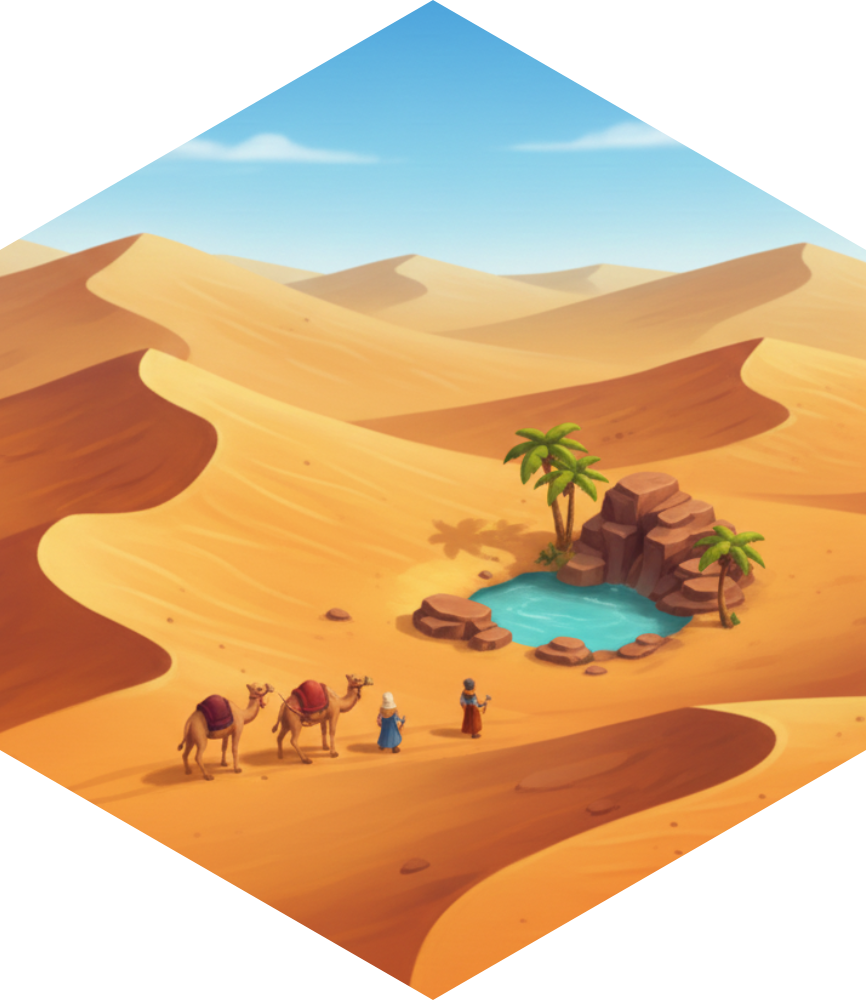
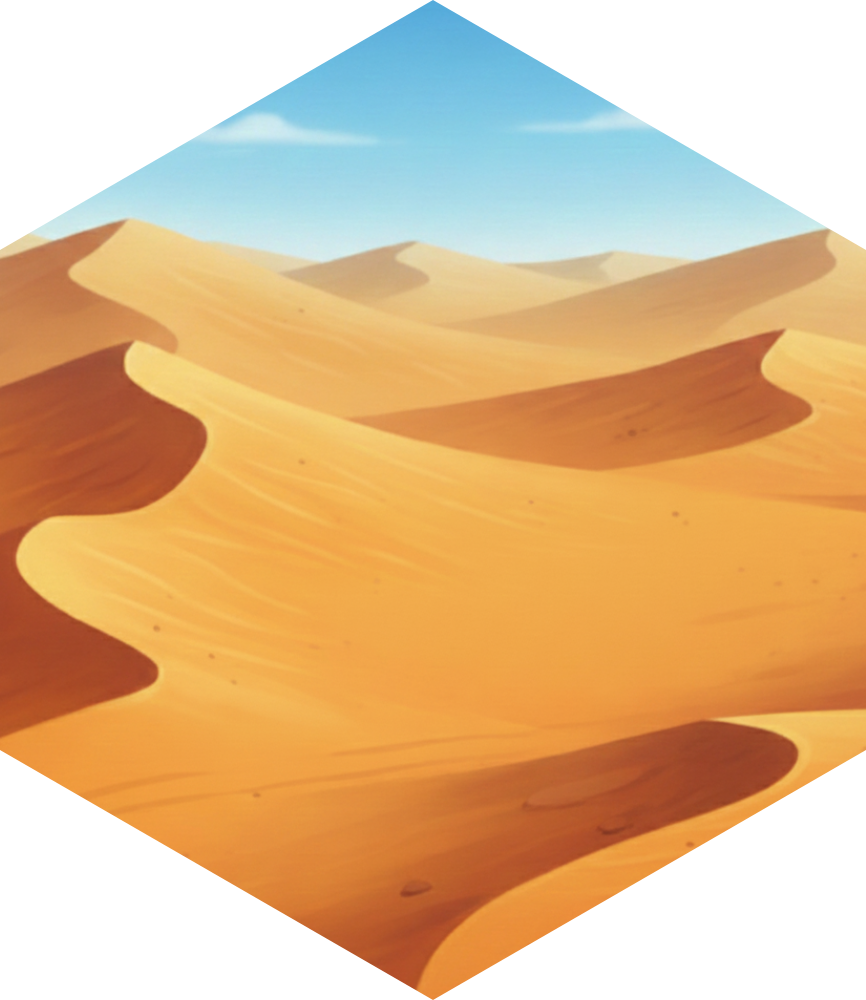
V01.00.04 añadir dos mapas y la opción de números fijos

diff --git a/index.html b/index.html
@@ -114,6 +114,32 @@
         .rojo { color: red; font-size: 18px; }
 
         .btn { width: 100%; padding: 10px; border-radius: 5px; border: none; cursor: pointer; background: #2980b9; color: white; font-weight: bold; margin-bottom: 5px; }
+
+        /* Rejilla de edición pequeña */
+        .modo-edicion .hex {
+            width: 30px !important;
+            height: calc(30px * 1.1547) !important;
+            outline: 1px solid rgba(255,255,255,0.1);
+        }
+
+        /* Paleta de selección */
+        .paleta-editor { 
+            display: grid; 
+            grid-template-columns: repeat(3, 1fr); 
+            gap: 5px; 
+            margin-top: 10px; 
+        }
+        .pincel-opcion { 
+            width: 45px; height: 45px; 
+            cursor: pointer; 
+            border: 2px solid transparent;
+            clip-path: polygon(50% 0%, 100% 25%, 100% 75%, 50% 100%, 0% 75%, 0% 25%);
+            background-size: cover;
+        }
+        .pincel-opcion.activo { border: 2px solid #f1c40f; transform: scale(1.1); }
+
+        /* Cursor especial al pintar */
+        .pintando { cursor: crosshair !important; }
     </style>
 </head>
 
@@ -133,6 +159,8 @@
         <div class="cabecera-seccion" onclick="toggleSeccion(this)">🗺 Seleccionar Mapa</div>
         <div class="contenido-seccion">
             <button class="btn" onclick="cargarMapa('Catan básico (3-4).json')">Catan básico (3-4)</button>
+            <button class="btn" onclick="cargarMapa('Catan básico (5-6).json')">Catan básico (5-6)</button>
+            <button class="btn" onclick="cargarMapa('Ataque de los bárbaros (3-4).json')">Ataque de los bárbaros (3-4)</button>
         </div>
     </div>
 
@@ -159,6 +187,16 @@
             </p>
         </div>
     </div>
+    <div class="seccion-colapsable">
+        <div class="cabecera-seccion" onclick="toggleSeccion(this)">🛠 Modo Creador</div>
+        <div class="contenido-seccion">
+            <button class="btn" style="background: #d35400;" onclick="activarModoCreador()">Activar Lienzo 20x20</button>
+            <p style="font-size: 0.7em; color: #888;">Selecciona una pieza:</p>
+            <div id="selector-piezas" class="paleta-editor">
+                </div>
+            <button class="btn" style="background: #27ae60; margin-top:15px;" onclick="descargarJSONCreado()">💾 Descargar JSON</button>
+        </div>
+    </div>
 </div>
 
 <div class="contenedor-tablero">
@@ -172,6 +210,79 @@
     const tablero = document.getElementById('tablero');
     const menu    = document.getElementById('menu-lateral');
     let mapaActualData = null;
+
+    let piezaSeleccionada = 'vacio';
+    let datosMapaCreador = [];
+
+    function activarModoCreador() {
+        // 1. Cambiamos el tamaño visual del tablero a 30px mediante una clase CSS
+        document.body.classList.add('modo-edicion');
+        document.documentElement.style.setProperty('--hex_wpx', '30px');
+        
+        // 2. Cargamos las opciones de piezas en el panel lateral
+        const tipos = ['bosque', 'trigo', 'oveja', 'piedra', 'arcilla', 'desierto', 'agua', 'vacio'];
+        const contenedor = document.getElementById('selector-piezas');
+        contenedor.innerHTML = '';
+        
+        tipos.forEach(tipo => {
+            const div = document.createElement('div');
+            div.className = 'pincel-opcion';
+            div.style.backgroundImage = `url('images/${tipo === 'agua' ? 'agua.gif' : tipo + '.png'}')`;
+            div.onclick = () => {
+                piezaSeleccionada = tipo;
+                document.querySelectorAll('.pincel-opcion').forEach(el => el.classList.remove('activo'));
+                div.classList.add('activo');
+                document.getElementById('tablero').classList.add('pintando');
+            };
+            contenedor.appendChild(div);
+        });
+
+        // 3. Generamos la rejilla de 20x20
+        datosMapaCreador = [];
+        for (let f = 0; f < 20; f++) {
+            for (let c = 0; c < 20; c++) {
+                const offset = (f % 2 !== 0) ? 0.5 : 0;
+                datosMapaCreador.push({ f: f, c: c + offset, tipo: 'vacio' });
+            }
+        }
+        
+        // Usamos tu propia función de renderizado para mostrar la rejilla
+        renderizarMapa({ hexagono: datosMapaCreador });
+
+        // 4. Inyectamos la lógica de "pintar" en los hexágonos renderizados
+        actualizarEventosPintado();
+    }
+
+    function actualizarEventosPintado() {
+        const hexsEnPantalla = document.querySelectorAll('.hex');
+        hexsEnPantalla.forEach((div, index) => {
+            div.onclick = () => {
+                // Actualizamos el modelo de datos
+                datosMapaCreador[index].tipo = piezaSeleccionada;
+                // Actualizamos la vista inmediatamente
+                div.className = `hex ${piezaSeleccionada}`;
+                div.style.backgroundImage = `url('images/${piezaSeleccionada === 'agua' ? 'agua.gif' : piezaSeleccionada + '.png'}')`;
+            };
+        });
+    }
+
+    function descargarJSONCreado() {
+        // Filtramos para no exportar los "vacio" y que el JSON sea limpio
+        const resultado = {
+            nombre: "Mapa Personalizado Rayco",
+            hexagono: datosMapaCreador.filter(h => h.tipo !== 'vacio')
+        };
+        
+        const blob = new Blob([JSON.stringify(resultado, null, 2)], { type: 'application/json' });
+        const url = URL.createObjectURL(blob);
+        const a = document.createElement('a');
+        a.href = url;
+        a.download = 'nuevo_mapa_catan.json';
+        a.click();
+    }
+
+
+
 
 
     function iniciarTodo() {
@@ -239,6 +350,12 @@
     }
 
     function procesarConfiguracion(maps) {
+        maps.hexagono.forEach(h => {
+            if (h.numero && h.numero > 0) {
+                h.numeroFinal = h.numero;
+            }
+        });
+
         // --- 1. PREPARAR BOLSAS DE RECURSOS Y LAS ASIGNAMOS---
         for (const key in maps.recursos) {
             let bolsa = [];
@@ -258,23 +375,26 @@
 
         // --- 2. ASIGNAR NÚMEROS POR ÓRDENES ---
         // Procesamos cada grupo de orden (orden_1, orden_2...)
-        for (const ordenKey in maps.numeros) {
-            const infoOrden = maps.numeros[ordenKey];
-            let listaNumeros = [...infoOrden.valores];
-            
-            if (infoOrden.tipo === "aleatorio") {
-                listaNumeros = listaNumeros.sort(() => Math.random() - 0.5);
+
+        if (maps.numeros){ // Si no hay números, salimos
+            for (const ordenKey in maps.numeros) {
+                const infoOrden = maps.numeros[ordenKey];
+                let listaNumeros = [...infoOrden.valores];
+                
+                if (infoOrden.tipo === "aleatorio") {
+                    listaNumeros = listaNumeros.sort(() => Math.random() - 0.5);
+                }
+
+                // Filtramos hexágonos que pertenecen a este orden y NO son hexagonos sin número.
+                const hexsValidos = maps.hexagono
+                    .filter(h => h[ordenKey] > 0 && !terrenosSinNumero.includes(h.tipo))
+                    .sort((a, b) => a[ordenKey] - b[ordenKey]);
+
+                // Asignamos el número de la lista según la posición
+                hexsValidos.forEach((h, index) => {
+                    h.numeroFinal = listaNumeros[index] || null;
+                });
             }
-
-            // Filtramos hexágonos que pertenecen a este orden y NO son desierto/agua
-            const hexsValidos = maps.hexagono
-                .filter(h => h[ordenKey] > 0 && !terrenosSinNumero.includes(h.tipo))
-                .sort((a, b) => a[ordenKey] - b[ordenKey]);
-
-            // Asignamos el número de la lista según la posición
-            hexsValidos.forEach((h, index) => {
-                h.numeroFinal = listaNumeros[index] || null;
-            });
         }
 
         return maps;
